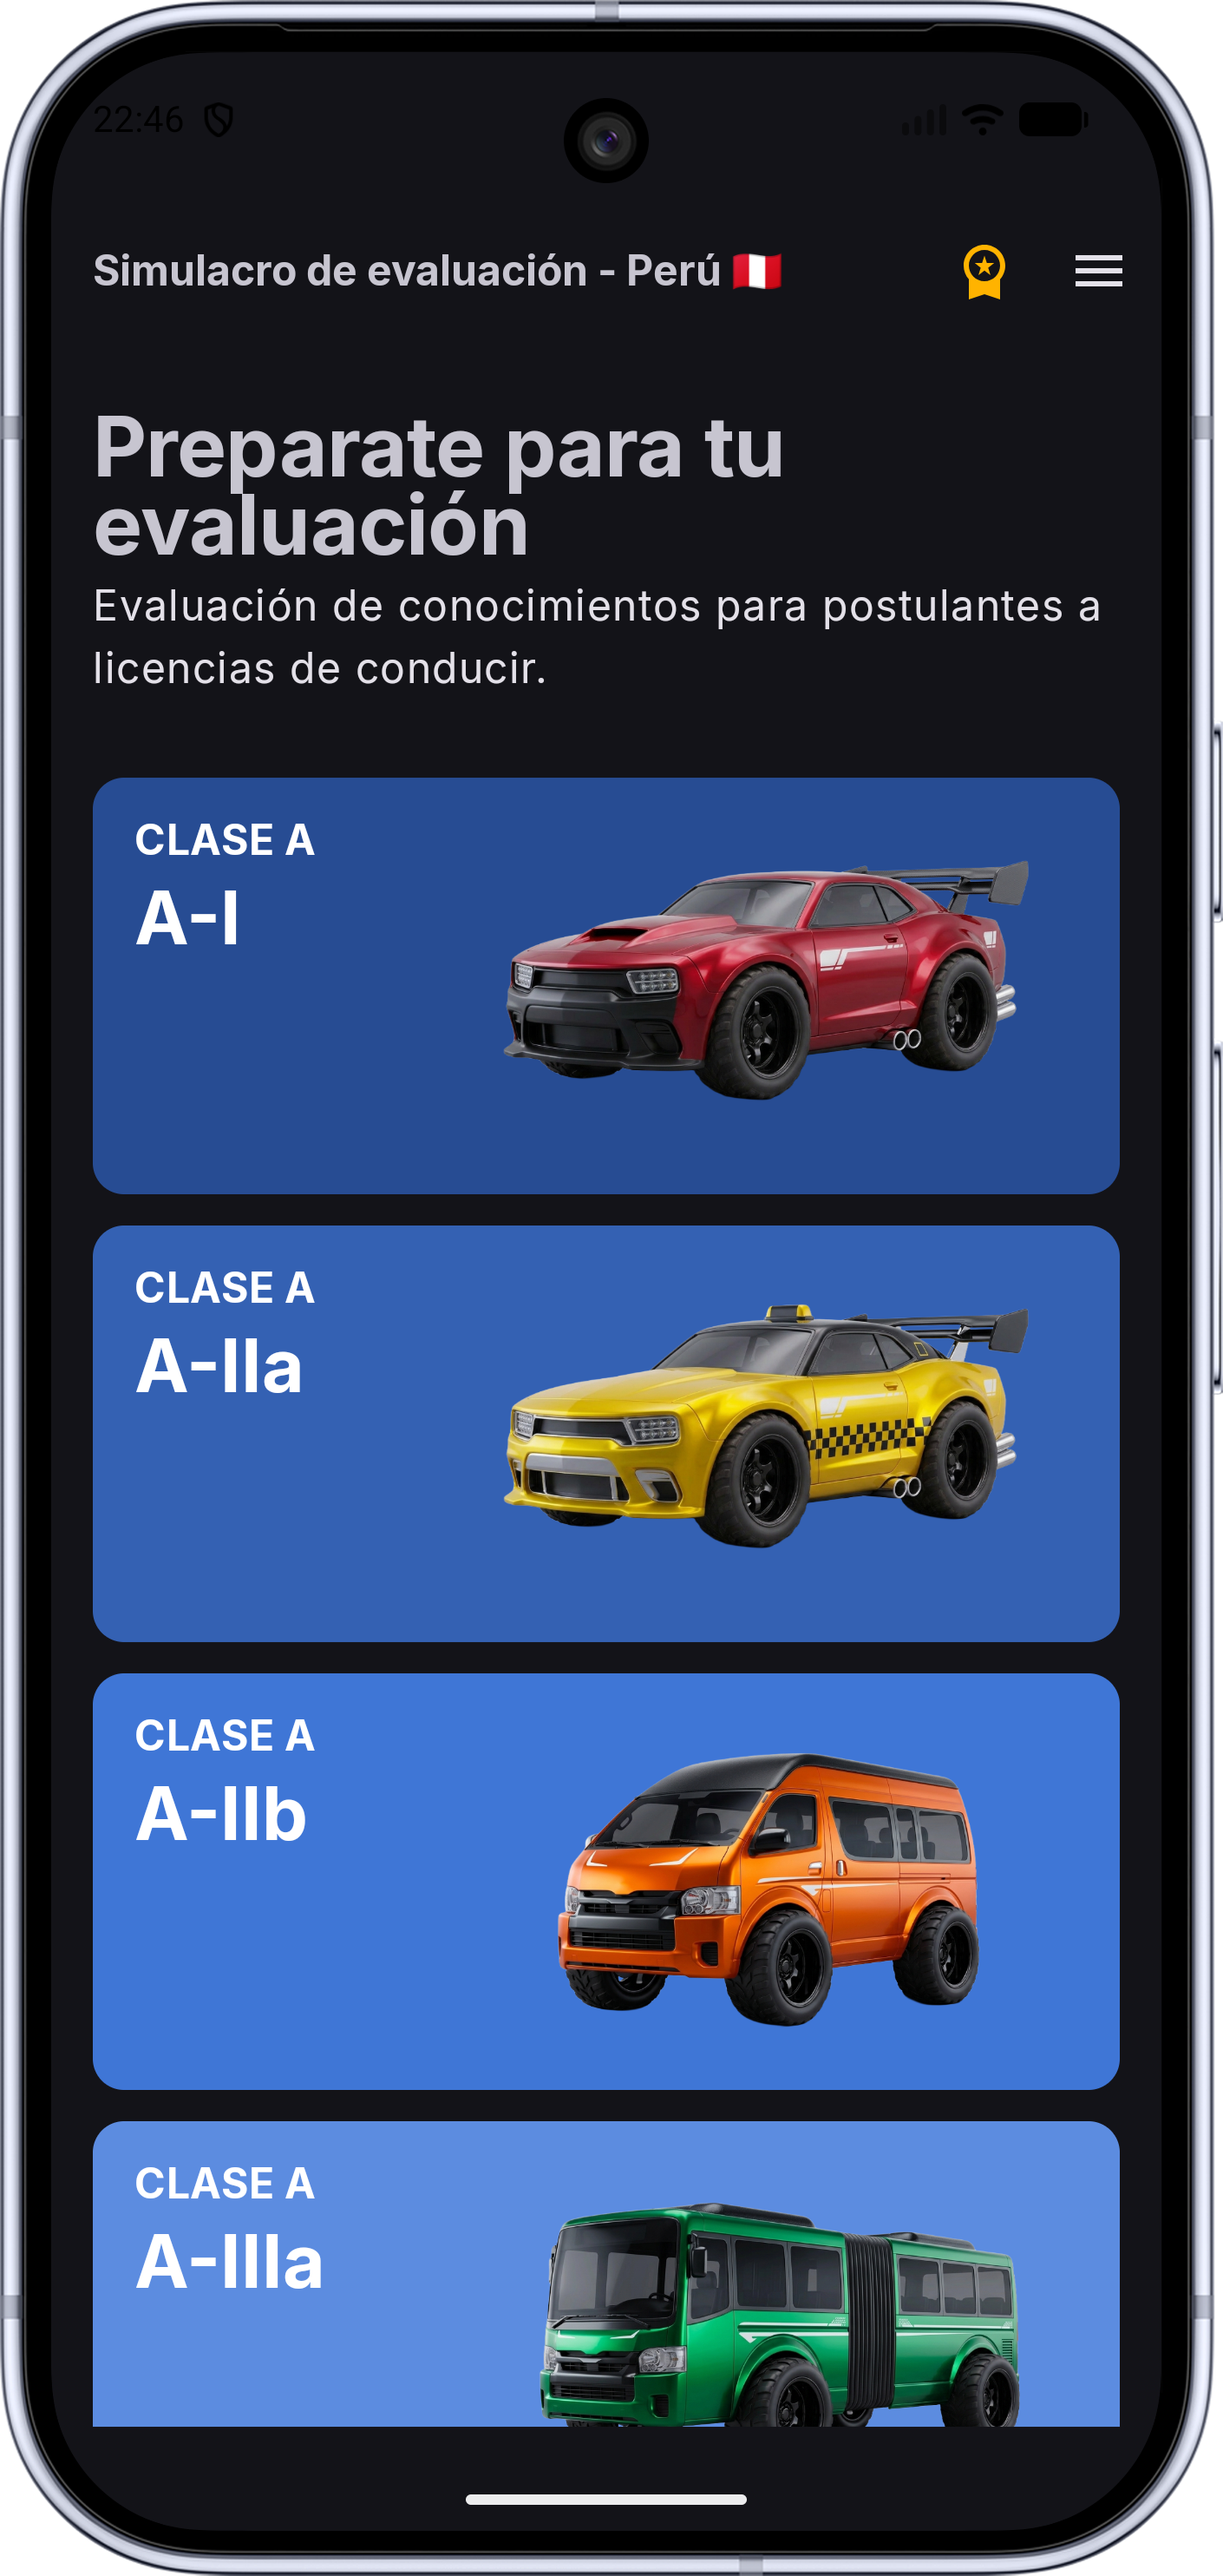
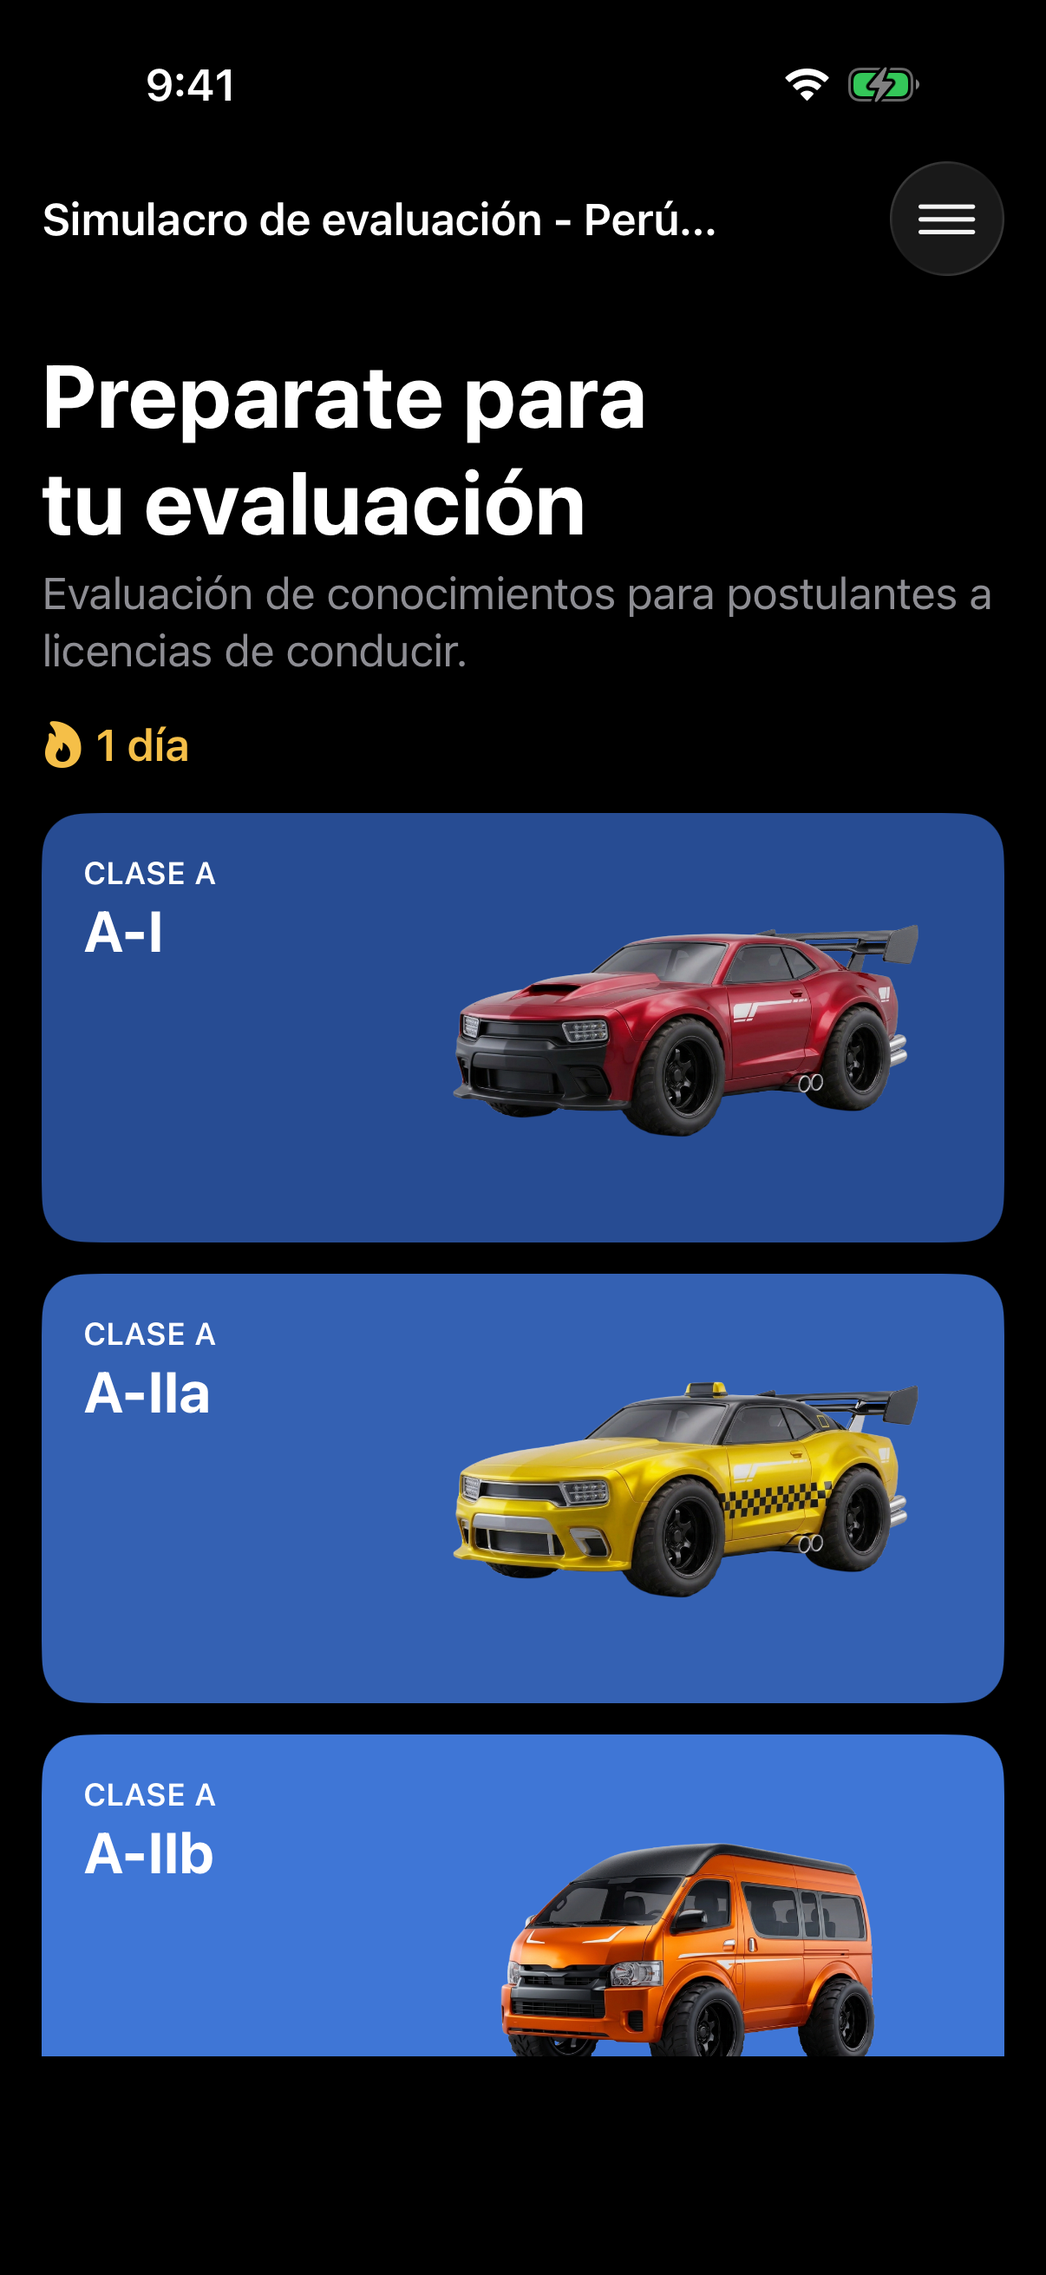
docs: add project README with screenshots, stack and architecture

diff --git a/README.md b/README.md
@@ -1,0 +1,142 @@
+# MTCQuiz
+
+![Versión](https://img.shields.io/badge/version-1.0-blue)
+![iOS](https://img.shields.io/badge/iOS-17.0%2B-brightgreen)
+![Licencia](https://img.shields.io/badge/license-Proprietary-lightgrey)
+
+MTCQuiz es una app nativa de iOS para practicar el examen de licencia de conducir del MTC (Ministerio
+de Transportes y Comunicaciones del Perú). Trae los nueve bancos de preguntas oficiales como JSON e
+imágenes empaquetados, para que quien estudia pueda hacer simulacros cronometrados, recorrer todo el
+banco de preguntas con retroalimentación instantánea, y ver el PDF oficial del balotario — todo sin
+conexión, sin cuenta y sin backend.
+
+Es la contraparte en iOS de una app Android existente (`gonzalo-droid/mtc-quiz`), reconstruida de
+forma nativa en SwiftUI en vez de portada línea por línea, y mantenida en paridad de comportamiento
+con ella sobre una base de mejor esfuerzo.
+
+## Capturas
+
+| | | |
+|:---:|:---:|:---:|
+| <img src="docs/screen/home.png" width="240"> | <img src="docs/screen/detail.png" width="240"> | <img src="docs/screen/evaluation.png" width="240"> |
+| **Inicio** | **Detalle de categoría** | **Evaluación** |
+| <img src="docs/screen/practice.png" width="240"> | <img src="docs/screen/pdf.png" width="240"> | <img src="docs/screen/settings.png" width="240"> |
+| **Estudiar** | **PDF del balotario** | **Configuraciones** |
+
+## Funcionalidades
+
+| Funcionalidad | Detalle |
+|---|---|
+| Nueve categorías de examen | A-I, A-IIa, A-IIb, A-IIIa, A-IIIb, A-IIIc, B-IIa, B-IIb, B-IIc — un banco de preguntas cada una, empaquetado como JSON + imágenes, copiado tal cual del PDF oficial del balotario del MTC (incluidas sus erratas de imprenta; un banco nunca se "corrige" contra otro) |
+| Evaluación cronometrada | Duración, número de preguntas y porcentaje de aprobación configurables (por defecto: 40 minutos / 40 preguntas / 80%, igual que Android); cada respuesta se califica al instante con resaltado verde/rojo, y el intento terminado se puntúa y se guarda |
+| Resumen, historial y estadísticas | Un resumen de aprobado/no aprobado por intento, un historial de evaluaciones pasadas, estadísticas agregadas, y una revisión de "errores más frecuentes" a partir de intentos anteriores |
+| Estudiar | Recorre el banco completo de una categoría (hasta 200 preguntas) con búsqueda que ignora tildes; las respuestas correctas se muestran en línea y no hay cronómetro |
+| Visor del PDF del balotario | Visor de PDF integrado para el examen oficial de la categoría, con descarga por hoja de compartir |
+| Configuraciones | Tema (sistema / claro / oscuro), duración/número de preguntas/porcentaje de aprobación de la evaluación, estadísticas, historial de evaluaciones, y enlaces a Términos, Política de Privacidad y la página oficial de "Trámites asociados" |
+| Onboarding | Introducción deslizable de tres páginas, se muestra una sola vez en el primer arranque |
+| Racha | Contador "🔥 N día(s)" en Inicio una vez completada al menos una evaluación |
+| Anuncios | Banner de Google Mobile Ads en Inicio/Detalle, más un intersticial con contador al iniciar una evaluación y al descargar un PDF (cada 3ra vez); los builds de Debug usan las unidades de prueba públicas de Google para que el desarrollo nunca sirva impresiones reales |
+| Premium | Stub de paywall solo de interfaz. `PremiumViewModel.subscribe()` es un no-op, no hay planes reales, y `isPremiumUser()` está fijo en `false` — no hay integración de StoreKit todavía. Sus puntos de entrada (la corona de Inicio, la fila de Configuraciones, el upsell "¿Cansado de los anuncios?" tras un anuncio) están **ocultos** hoy detrás de un flag de build (`offersPremium = false` en `mtcquizApp.swift`), así que la pantalla del paywall en sí no es alcanzable desde la app en ejecución |
+
+## Stack tecnológico
+
+| | |
+|---|---|
+| Lenguaje | Swift 5 |
+| UI | SwiftUI, view models con `@Observable` (no `ObservableObject`/Combine) |
+| Persistencia | SwiftData (historial de evaluaciones, preguntas descartadas) + `UserDefaults` (ajustes de evaluación) + `@AppStorage` (tema, flag de onboarding) |
+| Navegación | Un único `NavigationStack` + `NavigationPath`, con un enum `Route` para cada destino |
+| Modularidad | Paquetes locales de Swift Package Manager, uno por capa/feature, cada uno con su propio scheme de Xcode — el target de la app solo contiene el composition root |
+| Anuncios | Google Mobile Ads SDK 12.14.0 (banner + intersticiales). Google User Messaging Platform 3.1.0 está enlazado como dependencia transitiva pero el código de la app todavía no lo importa directamente |
+| Tests | Swift Testing (`@Test`, `#expect`, `@Test(arguments:)`), fakes escritos a mano sobre los protocolos de `MTCDomain` — sin framework de mocking |
+| Backend | Ninguno — sin servidor, sin Firebase, sin login. Todo el contenido va empaquetado dentro de la app |
+
+## Arquitectura
+
+Clean Architecture, un paquete local de SPM por capa o feature. Las dependencias apuntan hacia
+adentro (features → `MTCDomain`, más `MTCDesignSystem` para la UI); nada depende de un paquete de
+feature.
+
+```
+mtcquiz/                     Target de la app (deliberadamente delgado)
+├── mtcquizApp.swift          Composition root — construye cada repositorio y el ads manager
+└── Route.swift               Cada destino de la app, como un único enum
+
+Packages/
+├── MTCDomain/                 Modelos (Question, Category, Evaluation, SubscriptionPlan) y
+│                              protocolos de repositorio — Swift puro, sin UI, sin I/O
+├── MTCData/                   Repositorios (preguntas, categorías, preferencias, SwiftData) +
+│                              el JSON y las imágenes de los bancos de preguntas empaquetados
+├── MTCDesignSystem/            MTCColor, MTCTypography, y vistas compartidas (AnswerOptionRow,
+│                              QuestionAnswerCard, QuestionImageStrip, VehicleIllustration,
+│                              LegalWebView)
+├── MTCHomeFeature/ MTCDetailFeature/ MTCEvaluationFeature/ MTCQuestionReviewFeature/
+│   MTCPDFFeature/ MTCSettingsFeature/ MTCPremiumFeature/ MTCOnboardingFeature/
+│                              Una pantalla (vista + view model) por paquete de feature
+└── MTCAdsFeature/              GoogleAdsManager — envuelve el banner e intersticiales de Google Mobile Ads
+```
+
+La inyección de dependencias es manual y explícita: `mtcquizApp` construye cada repositorio una sola
+vez y los pasa hacia abajo como parámetros de `init`. No hay contenedor de DI ni grafo de
+`@EnvironmentObject`.
+
+## Requisitos y puesta en marcha
+
+| Herramienta | Notas |
+|---|---|
+| Xcode | Compila con el Xcode instalado en la máquina; el proyecto no declara una versión mínima |
+| iOS | 17.0+ (deployment target) |
+| Swift | Language mode 5 |
+
+No hace falta ninguna API key, `GoogleService-Info.plist` ni configuración de backend — la app no
+tiene Firebase ni servidor. Los ids de unidad de AdMob están fijos en `mtcquiz/mtcquizApp.swift`
+(las unidades de muestra públicas de Google bajo `#if DEBUG`, las reales en Release), así que un
+clon recién hecho compila y corre sin ningún paso de configuración.
+
+```bash
+# Descubre los nombres reales de scheme y destino en vez de adivinarlos
+xcodebuild -list -project mtcquiz.xcodeproj
+xcrun simctl list devices available
+
+# Compilar un paquete
+xcodebuild build -scheme MTCDesignSystem \
+  -destination 'generic/platform=iOS Simulator' -derivedDataPath /tmp/mtcds-verify
+
+# Testear un paquete — siempre vía xcodebuild, nunca `swift test` directo
+xcodebuild test -scheme MTCSettingsFeature \
+  -destination 'platform=iOS Simulator,name=iPhone 17'
+```
+
+Nada se compila "a nivel de app": cada paquete compila y se testea por separado, con su propio
+scheme (`xcodebuild test` — `swift test` a secas falla porque los paquetes apuntan al SDK del
+simulador de iOS). Todos los paquetes tienen tests salvo `MTCOnboardingFeature`.
+
+## Versionado
+
+Versión actual: **1.0** (build 1)
+
+Este repositorio todavía no tiene `CHANGELOG.md`. El trabajo previo a la subida a la App Store (ícono
+de la app, manifiesto de privacidad, declaración de export compliance, identificador de SKAdNetwork)
+ya está listo, pero la app aún no tuvo su primera versión pública — su ficha en App Store Connect
+existe pero no resuelve públicamente hasta que salga ese primer lanzamiento.
+
+## Privacidad
+
+- [Términos y condiciones](https://gonzalo-lozg.me/apps-docs/mtcquiz/term/)
+- [Política de privacidad](https://gonzalo-lozg.me/apps-docs/mtcquiz/politics/)
+
+Según el `PrivacyInfo.xcprivacy` de la app: no rastrea (sin aviso de App Tracking Transparency), no
+recolecta datos propios, y su único uso de API declarado es leer/escribir `UserDefaults` para sus
+propios ajustes. Google Mobile Ads trae su propio manifiesto de privacidad separado para lo que el
+SDK de anuncios recolecte por su cuenta.
+
+## Licencia
+
+Copyright © 2026 Gonzalo Lozg. Todos los derechos reservados.
+
+Este código fuente es propietario. Puede consultarse como referencia, pero no puede copiarse,
+modificarse, redistribuirse ni publicarse en ninguna tienda de apps sin permiso escrito.
+
+El contenido oficial del examen del MTC (bancos de preguntas y PDFs del balotario) pertenece al
+Ministerio de Transportes y Comunicaciones del Perú. La licencia anterior cubre solo el código
+fuente de esta aplicación, no ese contenido de terceros.
